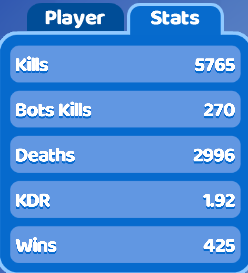
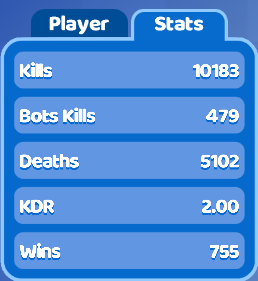
Test update of 10 people

Changed region(s): [[0.0, 0.0, 1.0, 1.0]]

diff --git a/playerList.js b/playerList.js
@@ -237,13 +237,13 @@ let player = [
      '5/19/2021'],
     ['Bowser.png',
      'Bowser',
-     2554,
-     36781,
-     9179,
-     18358,
-     '2.00',
-     17,
-     '6/30/2021'],
+     3002,
+     43804,
+     9199,
+     21435,
+     '2.04',
+     40,
+     '7/27/2021'],
     ['brandoom500.png',
      'brandoom500',
      167,
@@ -254,7 +254,7 @@ let player = [
      '',
      '5/27/2021'],
     ['Bro Man.jpg',
-     'Bro Man' + newPlayer,
+     'Bro Man',
      361,
      5685,
      236,
@@ -289,6 +289,15 @@ let player = [
      '1.26',
      '',
      '6/09/2021'],
+    ['ChickenFarta.png',
+     'ChickenFarta' + newPlayer,
+     1343,
+     21005,
+     1194,
+     14197,
+     '1.48',
+     40,
+     '7/27/2021'], 
     ['ChickenTenderz.png',
      'ChickenTenderz',
      259,
@@ -408,13 +417,13 @@ let player = [
      '5/31/2021'],
     ['Drew.png',
      'Drew',
-     833,
-     14397,
-     463,
-     9070,
-     '1.59',
-     13,
-     '6/30/2021'],
+     1000,
+     18651,
+     479,
+     11956,
+     '1.56',
+     26,
+     '7/27/2021'],
     ['Eli.png',
      'Eli',
      83,
@@ -442,15 +451,15 @@ let player = [
      '1.46',
      5,
      '6/16/2021'],
-    ['Enny.png',
-     'Enny',
-     188,
-     2815,
-     208,
-     1730,
-     '1.63',
-     12,
-     '6/23/2021'],
+    ['DrewIsLeBest.png', //Enny
+     'DrewIsLeBest',
+     326,
+     4688,
+     347,
+     2801,
+     '1.67',
+     22,
+     '7/27/2021'],
     ['EREDOTEI.png',
      'EREDOTEI',
      2,
@@ -460,6 +469,15 @@ let player = [
      '0.49',
      7,
      '6/16/2021'],
+    ['Fall Teem.png',
+     'Fall Teem' + newPlayer,
+     893,
+     10409,
+     659,
+     4435,
+     '2.35',
+     30,
+     '7/27/2021'],
     ['FancyCarrot.png',
      'FancyCarrot',
      150,
@@ -676,6 +694,15 @@ let player = [
      '0.95',
      '',
      '6/23/2021'],
+    ['insane.png',
+     'insane' + newPlayer,
+     275,
+     4498,
+     239,
+     3664,
+     '1.23',
+     24,
+     '7/27/2021'], 
     ['JackCrew22.jpg',
      'JackCrew22',
      17,
@@ -768,15 +795,15 @@ let player = [
      '6/09/2021'],
     ['KI123NG.png',
      'KI123NG',
-     217,
-     4894,
-     118,
-     3765,
-     '1.30',
-     '',
-     ''],
+     483,
+     10003,
+     203,
+     7215,
+     '1.39',
+     22,
+     '7/27/2021'],
     ['KING.png',
-     'KING' + newPlayer,
+     'KING',
      172,
      2571,
      88,
@@ -820,6 +847,15 @@ let player = [
      '1.93',
      '',
      ''],
+    ['LightRod.png',
+     'LightRod' + newPlayer,
+     6267,
+     84471,
+     548,
+     25841,
+     '3.27',
+     40,
+     '7/27/2021'],
     ['LMAO.png',
      'LMAO',
      22,
@@ -937,6 +973,15 @@ let player = [
      '1.45',
      8,
      '5/18/2021'],
+    ['mercury.png',
+     'mercury' + newPlayer,
+     295,
+     5100,
+     76,
+     3296,
+     '1.55',
+     22,
+     '7/27/2021'],
     ['MermorialPigg.png',
      'MermorialPigg',
      531,
@@ -1100,7 +1145,7 @@ let player = [
      16,
      '6/23/2021'],
     ['numan.png',
-     'numan' + newPlayer,
+     'numan',
      16,
      608,
      71,
@@ -1307,7 +1352,7 @@ let player = [
      17,
      '6/30/2021'],
     ['Rottweiler.png',
-     'Rottweiler' + newPlayer,
+     'Rottweiler',
      1873,
      25946,
      1813,
@@ -1424,7 +1469,7 @@ let player = [
      15,
      '5/28/2021'],
     ['Smashfarts.png',
-     'Smashfarts' + newPlayer,
+     'Smashfarts',
      486,
      6046,
      2076,
@@ -1470,13 +1515,13 @@ let player = [
      '6/23/2021'],
     ['Smatisfaction.png',
      'Smatisfaction',
-     425,
-     5765,
-     270,
-     2996,
-     '1.92',
+     755,
+     10183,
+     479,
+     5102,
+     '2.00',
      '',
-     '6/23/2021'],
+     '7/27/2021'],
     ['SnowPanda.png',
      'SnowPanda',
      144,
@@ -1550,7 +1595,7 @@ let player = [
      8,
      ''],
     ['subtoDragonMaster19yt.png',
-     'subtoDragonMaster19yt' + newPlayer,
+     'subtoDragonMaster19yt',
      450,
      8486,
      951,
@@ -1667,7 +1712,7 @@ let player = [
      '',
      '6/23/2021'],
     ['Ver24436.png',
-     'Ver24436' + newPlayer,
+     'Ver24436',
      176,
      1918,
      0,
